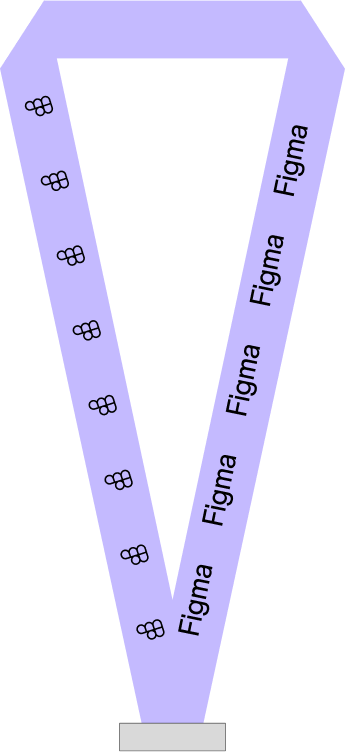
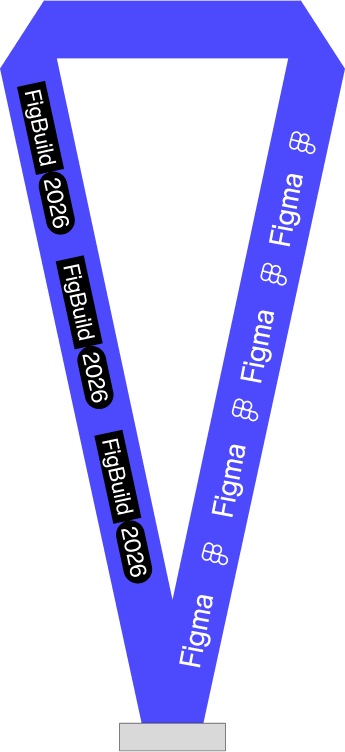
added SVGs for the figma cord

diff --git a/Customizable Peel-able Badge 2/src/app/App.tsx b/Customizable Peel-able Badge 2/src/app/App.tsx
@@ -6,6 +6,11 @@ import { Undo2, Trash2, ArrowLeft } from 'lucide-react';
 // Import SVG paths from Figma
 import svgPaths from '../imports/svg-fkhx66co9q';
 
+// Import cord button SVGs
+import cordBlackSvg from '../assets/filbutton-cordblack.svg';
+import cordBlueSvg from '../assets/filbutton-cordblue.svg';
+import cordPeriwinkleSvg from '../assets/filbutton-cordperiwinkle.svg';
+
 type BorderStyle = 'none' | 'dashed' | 'wiggly' | 'solid';
 type CordColor = 'black' | 'periwinkle' | 'blue';
 type Background = 'swag' | 'creative' | 'playful';
@@ -1230,8 +1235,14 @@ function DraggablePronounSticker({ text }: { text: string }) {
   );
 }
 
-// Cords Panel Component  
+// Cords Panel Component
 function CordsPanel({ cordColor, setCordColor }: { cordColor: CordColor; setCordColor: (color: CordColor) => void }) {
+  const cordSvgs = {
+    black: cordBlackSvg,
+    periwinkle: cordPeriwinkleSvg,
+    blue: cordBlueSvg
+  };
+
   return (
     <div className="bg-[#ececec] rounded-[12px] p-[20px] w-full flex flex-col gap-[16px]">
       <div className="font-['Figma_Sans_VF:Medium',sans-serif] text-[24px] tracking-[-0.72px] leading-[0.95] text-black h-[17px] flex flex-col justify-center">
@@ -1242,20 +1253,18 @@ function CordsPanel({ cordColor, setCordColor }: { cordColor: CordColor; setCord
           <button
             key={color}
             onClick={() => setCordColor(color)}
-            className={`flex gap-[10px] items-center p-[4px] relative ${
+            className={`flex-1 flex gap-[10px] items-center p-[4px] relative ${
               cordColor === color
                 ? 'border border-[#4d49fc] rounded-[4px]'
                 : 'rounded-[2px]'
             }`}
           >
-            <div className="size-[82px] bg-white rounded-[3.184px] overflow-hidden relative">
-              <div className="absolute inset-0 flex items-center justify-center">
-                <img
-                  src={`/LanyardCord-${color.charAt(0).toUpperCase() + color.slice(1)}.png`}
-                  alt={`${color} lanyard cord`}
-                  className="w-full h-full object-contain scale-[0.09]"
-                />
-              </div>
+            <div className="w-full aspect-square bg-white rounded-[3.184px] overflow-hidden relative">
+              <img
+                src={cordSvgs[color]}
+                alt={`${color} cord button`}
+                className="w-full h-full object-cover"
+              />
             </div>
             <span className="absolute bottom-[-11.5px] left-[-1px] translate-y-1/2 font-['Figma_Sans_VF:Regular',sans-serif] text-[14px] text-black/50 tracking-[-0.42px] capitalize w-[104px] text-left leading-[0.95]">{color}</span>
           </button>
@@ -1440,8 +1449,8 @@ const BadgePreview = React.forwardRef<
   const handleMouseDown = (e: React.MouseEvent<HTMLDivElement>) => {
     if (e.button === 0) {
       const rect = e.currentTarget.getBoundingClientRect();
-      const x = (e.clientX - rect.left) / scale;
-      const y = (e.clientY - rect.top) / scale;
+      const x = ((e.clientX - rect.left) / rect.width) * 483;
+      const y = ((e.clientY - rect.top) / rect.height) * 682;
       setIsDrawing(true);
       setCurrentPath([{ x, y, size: drawSize }]);
     }
@@ -1450,8 +1459,8 @@ const BadgePreview = React.forwardRef<
   const handleMouseMove = (e: React.MouseEvent<HTMLDivElement>) => {
     if (isDrawing) {
       const rect = e.currentTarget.getBoundingClientRect();
-      const x = (e.clientX - rect.left) / scale;
-      const y = (e.clientY - rect.top) / scale;
+      const x = ((e.clientX - rect.left) / rect.width) * 483;
+      const y = ((e.clientY - rect.top) / rect.height) * 682;
       setCurrentPath(prev => [...prev, { x, y, size: drawSize }]);
     }
   };
@@ -1619,7 +1628,7 @@ const BadgePreview = React.forwardRef<
                 style={{
                   left: sticker.x - 27,
                   top: sticker.y - 27,
-                  transform: `rotate(${sticker.rotation}deg) scale(1.35)`,
+                  transform: `rotate(${sticker.rotation}deg) scale(1.5)`,
                 }}
               >
                 <div className="w-[55px] h-[55px] overflow-hidden rounded-[4px]">
@@ -1683,7 +1692,7 @@ const BadgePreview = React.forwardRef<
                 style={{
                   left: sticker.x - 37,
                   top: sticker.y - 26,
-                  transform: `rotate(${sticker.rotation}deg) scale(1.35)`,
+                  transform: `rotate(${sticker.rotation}deg) scale(1.75)`,
                 }}
               >
                 <div className="w-[75px] h-[52px] relative">
@@ -1710,7 +1719,7 @@ const BadgePreview = React.forwardRef<
                 style={{
                   left: sticker.x - 40,
                   top: sticker.y - 14,
-                  transform: `rotate(${sticker.rotation}deg) scale(1.35)`,
+                  transform: `rotate(${sticker.rotation}deg) scale(1.5)`,
                 }}
               >
                 <div className="px-[11px] py-[6px] rounded-[100px] whitespace-nowrap" style={{ backgroundColor: sticker.aboutColor }}>
@@ -1729,7 +1738,7 @@ const BadgePreview = React.forwardRef<
                 style={{
                   left: sticker.x - 40,
                   top: sticker.y - 14,
-                  transform: `rotate(${sticker.rotation}deg) scale(1.35)`,
+                  transform: `rotate(${sticker.rotation}deg) scale(1.5)`,
                 }}
               >
                 <div className="bg-[#e4ff97] px-[12px] py-[6px] whitespace-nowrap">
@@ -1748,7 +1757,7 @@ const BadgePreview = React.forwardRef<
               style={{
                 left: sticker.x - 35,
                 top: sticker.y - 25,
-                transform: `rotate(${sticker.rotation}deg) scale(1.25)`,
+                transform: `rotate(${sticker.rotation}deg) scale(1.75)`,
               }}
             >
               <div className="w-[70px] h-[51px] relative">
